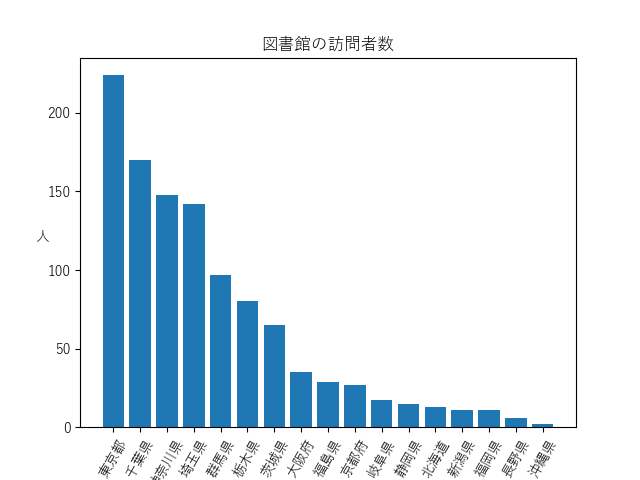
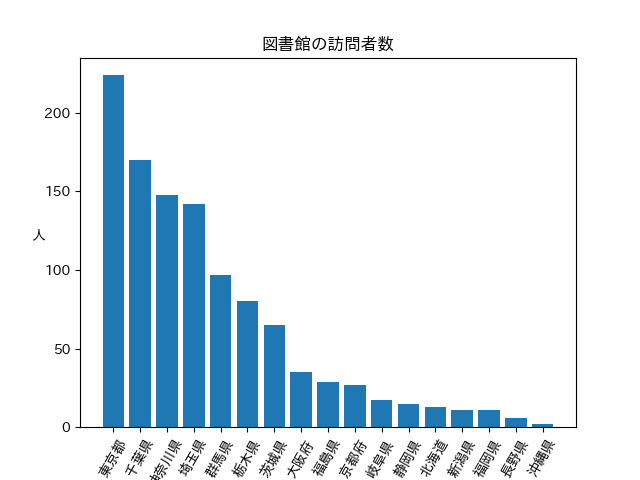
web-scraping added.

diff --git a/graph_2023_11_11/p281.py b/graph_2023_11_11/p281.py
@@ -1,6 +1,5 @@
-import matplotlib
 import matplotlib.pyplot as plt
-# import japanize_matplotlib
+import japanize_matplotlib
 
 
 def get_r(x):
@@ -26,11 +25,12 @@ labels = [k for k, v in lst_desc]
 values = [v for k, v in lst_desc]
 print(labels)
 print(values)
-plt.rcParams['font.family'] = 'Yu Gothic'
+# plt.rcParams['font.family'] = 'Yu Gothic'
 plt.bar(labels, values)
 plt.xticks(rotation=60)
 plt.ylabel('人', rotation=0)
 plt.title('図書館の訪問者数')
+# plt.bar(range(0, len(lst_desc)), values)
 plt.savefig('図書館の訪問者数.png')
 plt.show()
 

diff --git a/web-scraping/scraping.py b/web-scraping/scraping.py
@@ -1,0 +1,14 @@
+import requests
+from bs4 import BeautifulSoup
+
+result = requests.get('https://www.shoeisha.co.jp/book/ranking')
+soup = BeautifulSoup(result.text, 'html.parser')
+
+for sec in soup.select('section'):
+    print(sec)
+    print('---------------------')
+    if sec.select_one('h2'):
+        category = sec.select_one('h2').text
+        title = sec.select_one('ul').select_one('li').text
+        # print(category)
+        # print(title)
